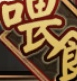
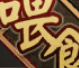
fix(Pets): 更新宠物相关规则和描述，调整图像区域

diff --git a/tasks/Pets/assets.py b/tasks/Pets/assets.py
@@ -17,12 +17,12 @@ class PetsAssets:
 	I_PET_CLAW = RuleImage(roi_front=(1171,625,55,56), roi_back=(1171,625,55,56), threshold=0.8, method="Template matching", file="./tasks/Pets/pet/pet_pet_claw.png")
 	# 其乐融融 
 	I_PET_HAPPY = RuleImage(roi_front=(853,614,67,70), roi_back=(853,614,67,70), threshold=0.8, method="Template matching", file="./tasks/Pets/pet/pet_pet_happy.png")
-	# 大餐 
-	I_PET_FEAST = RuleImage(roi_front=(747,619,69,61), roi_back=(747,619,69,61), threshold=0.8, method="Template matching", file="./tasks/Pets/pet/pet_pet_feast.png")
+	# 快速喂养 
+	I_PET_FEAST = RuleImage(roi_front=(849,624,69,49), roi_back=(849,624,69,49), threshold=0.8, method="Template matching", file="./tasks/Pets/pet/pet_pet_feast.png")
 	# 玩耍 
 	I_PET_PLAY = RuleImage(roi_front=(788,500,75,75), roi_back=(788,500,75,75), threshold=0.8, method="Template matching", file="./tasks/Pets/pet/pet_pet_play.png")
-	# 投喂 
-	I_PET_FEED = RuleImage(roi_front=(798,497,77,81), roi_back=(798,497,77,81), threshold=0.8, method="Template matching", file="./tasks/Pets/pet/pet_pet_feed.png")
+	# 喂食 
+	I_PET_FEED = RuleImage(roi_front=(899,511,79,68), roi_back=(884,485,127,123), threshold=0.8, method="Template matching", file="./tasks/Pets/pet/pet_pet_feed.png")
 	# 跳过 
 	I_PET_SKIP = RuleImage(roi_front=(1089,119,72,41), roi_back=(999,42,242,147), threshold=0.65, method="Template matching", file="./tasks/Pets/pet/pet_pet_skip.png")
 	# 退出 
@@ -30,8 +30,8 @@ class PetsAssets:
 
 
 	# Ocr Rule Assets
-	# 投喂的体力 
-	O_PET_FEED_AP = RuleOcr(roi=(730,527,57,33), area=(730,527,57,33), mode="Digit", method="Default", keyword="", name="pet_feed_ap")
+	# 喂食的体力 
+	O_PET_FEED_AP = RuleOcr(roi=(817,538,57,33), area=(817,538,57,33), mode="Digit", method="Default", keyword="", name="pet_feed_ap")
 	# 玩耍的体力 
 	O_PET_PLAY_GOLD = RuleOcr(roi=(681,524,74,40), area=(681,524,74,40), mode="Digit", method="Default", keyword="", name="pet_play_gold")
 

diff --git a/tasks/Pets/script_task.py b/tasks/Pets/script_task.py
@@ -25,8 +25,8 @@ class ScriptTask(GameUi, PetsAssets):
             if self.appear_then_click(self.I_PET_CLAW, interval=1):
                 continue
         logger.info('Enter Pets')
-        if con.pets_happy:
-            self._play()
+        # if con.pets_happy:
+        #     self._play()
         if con.pets_feast:
             self._feed()
         self.ui_click(self.I_PET_EXIT, self.I_CHECK_MAIN)

diff --git a/tasks/Pets/config.py b/tasks/Pets/config.py
@@ -9,8 +9,8 @@ from tasks.Component.config_base import ConfigBase
 
 class PetsConfig(ConfigBase):
     # 其乐融融
-    pets_happy: bool = Field(default=True)
-    # 大餐
+    # pets_happy: bool = Field(default=True)
+    # 快速喂养
     pets_feast: bool = Field(default=True)
 
 class Pets(ConfigBase):
